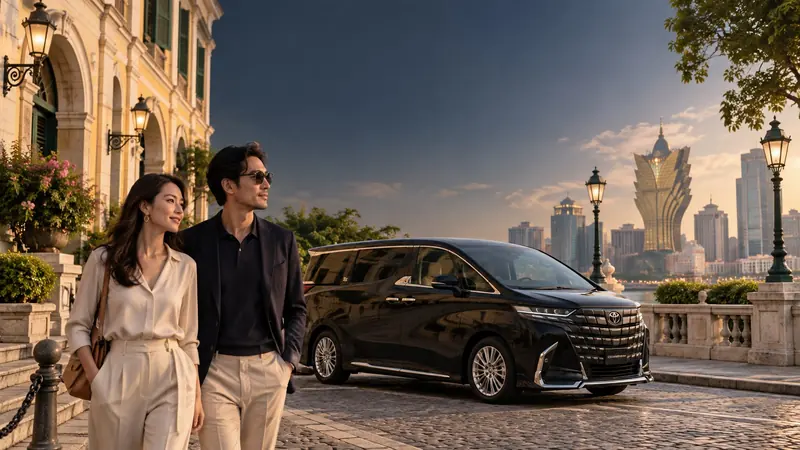
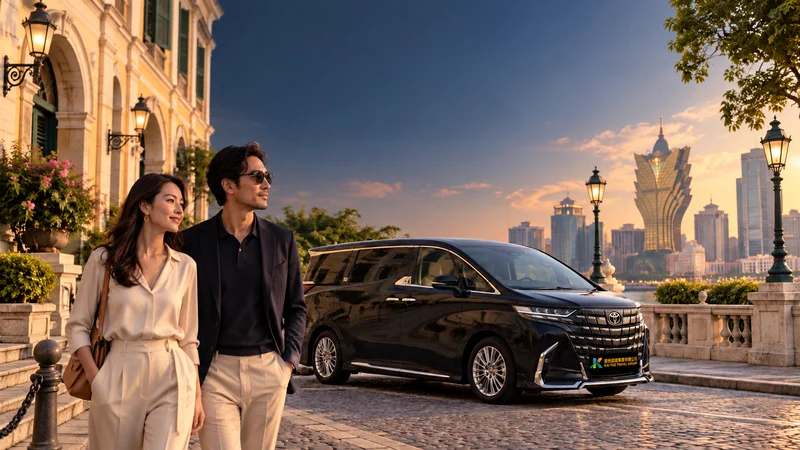
Update hero vehicle plates with Kai Yue branding

diff --git a/PROJECT-STATE.md b/PROJECT-STATE.md
@@ -1,5 +1,7 @@
 # Kai Yue Travel — Project State
 
+**Local visual review, 2026-10-22:** Evan authorized replacement of the exterior hero photos with Kai Yue branding inside visible front display plates and regeneration of the Home vehicle to match the other Alphard 40 Series illustrations. All 11 exterior hero sources and five existing WebP variants were updated locally on `main`, based on `743682430062badbe1b43fddab5710abb6b849c2`. Images were visually inspected, decoded, retained at their original dimensions, and checked against the actual bytes served by the local dev server. Home was also reviewed in the narrow in-app browser. This is asset-only local work; application flows, production build, and every page at every viewport were not retested. Evan accepted the visual changes and explicitly requested committing and pushing them to `main`. This records image approval only; no deployment or production release is included. Next action: commit and push the reviewed assets to `main`. See `docs/10-illustrative-image-set.md` and exact prompt/source manifest `docs/records/2026-10-22-hero-plate-prompts.json`. Earlier product status below remains dated as recorded.
+
 **Last updated:** 2026-10-16 (Special Offer WhatsApp service label + GBA copy + Special Offers pages on staging PR #13; not merged to main)
 **Product-status evidence date:** 2026-10-16 for GBA copy and special-offer enquiry/pages work; offers photo/cache/dashboard work and WeChat QR placeholder remain in-repo; City Tour booking UI evidence remains 2026-10-05; previous booking/admin evidence remains 2026-09-27.
 **Phase:** 2–3 — booking/API completion, lightweight admin, and staff special-offer catalogue
@@ -197,6 +199,13 @@ Workflow resume action (2026-10-03): the owning agent should trial a bounded rea
 | 2026-09-19 | Footer services column grouped like the header                                                                                                  | Real browser at 1440 and 390. `[Services]` renders the two groups only (Point To Point → Airport Transfer, Cross Border Rides, Local Transfers; By The Hour → Local Chauffeur, Weddings, City Tours); Pricing now sits in the Company column; no duplicate footer hrefs; 0 console errors. Mobile panel 390 wide, `overflow-y: auto`, 285 collapsed → 447 with a group expanded, all links reachable. `pnpm typecheck` 67 files clean; `pnpm test` 29/29.                                                                                                                                                                                                                                                                                                                                                                                                                                                                                                                                                            | `/booking` hydration race still reproduces 4/10 fresh loads. Brand mark still undecided (`mark.svg` vs the gold CSS diamond). Not a deployed preview.                                                                                                                                                                                                                  |
 
 ## Change log
+
+### 2026-10-22 — Local hero plate branding and Home vehicle revision
+
+- Replaced 11 existing exterior hero JPEGs with built-in image-generation edits using the existing Kai Yue logo reference; the About fleet includes every visible front plate. The Home edit also used Airport Transfer as the Alphard 40 Series appearance reference. Local Chauffeur interior remains unchanged.
+- Refreshed Home WebP widths 800/1200/1672, City Tours 800 WebP, and shared `hero-home.webp`. Original dimensions and existing consuming paths retained.
+- Reviewed the images visually, verified file decoding and local HTTP responses with exact served-byte comparisons for all 16 image files, and inspected the Home browser preview. Asset-only scope; no application behavior changes or full regression suite. Generated fine lettering may vary from the source logo. Evan accepted the visual changes and requested commit/push to `main`; production deployment and release remain outside this task.
+- Source checkout: clean `main` at `743682430062badbe1b43fddab5710abb6b849c2` before this task; Evan authorized committing and pushing these task edits directly to `main`. The resulting commit is recorded in Git history; no deployment was requested.
 
 ### 2026-10-16 — Special Offer WhatsApp service label (staging PR, not main)
 

diff --git a/docs/10-illustrative-image-set.md b/docs/10-illustrative-image-set.md
@@ -4,6 +4,16 @@
 
 ## Shared generation brief
 
+### Local plate-branding revision — 2026-10-22
+
+Evan requested Kai Yue branding inside visible front number plates across the exterior hero set, plus a Home hero vehicle revision to match the Alphard 40 Series appearance in the other service images. The built-in image generation tool used each existing scene as its edit target and `apps/web/public/images/kai-yue-travel-group-logo.png` as the brand reference. The Home edit also used the existing Airport Transfer hero as its vehicle reference. This request supersedes the earlier exclusion of branded display plates for these revised images.
+
+The edit targets are Home, Airport Transfer, Cross Border Rides, Local Transfers, Weddings, City Tours / Special Offers, About fleet, Corporate Solutions, Hotels & Resorts, Travel Agency, and the shared `hero-home.jpg` image used by Contact and other existing consumers. The Local Chauffeur interior is unchanged. Existing paths are retained; Home, City Tours, and shared-image WebP variants must match their revised JPEGs.
+
+Prompt specification: replace only the front number-plate area with a realistic black display plate bearing the reference multicolor K emblem and gold Kai Yue Travel Group wordmark, fitted to the plate perspective and scene lighting; remove previous numbers or gibberish; preserve Toyota badges, people, framing, background and lighting. For Home only, regenerate the black vehicle to match the reference Alphard 40 Series proportions, grille, headlights, bumper and factory wheels while retaining its position, angle, scale and closed doors. For About, apply the plate treatment to every visible vehicle while preserving foreground occlusion.
+
+These remain AI-generated illustrations. Small plate lettering is generated imagery and may vary from the supplied logo at close inspection. Local visual review is separate from owner acceptance or publication; no production release is included.
+
 - Use case: photorealistic-natural website photography, premium but believable Macau travel setting.
 - Vehicle body references: user-supplied `images (1).jpeg`, `images (2).jpeg`, `images (3).jpeg`, and `40alphard_b_sp_09.jpg`. Preserve the Alphard 40 Series tall, upright body, broad layered grille, narrow headlights, sculpted front bumper, and sliding-door profile.
 - Wheel exception: use ordinary factory-style Toyota Alphard alloy wheels, normal tire size, and normal ride height. Do not copy the modified wheels or lowered stance in the references.
